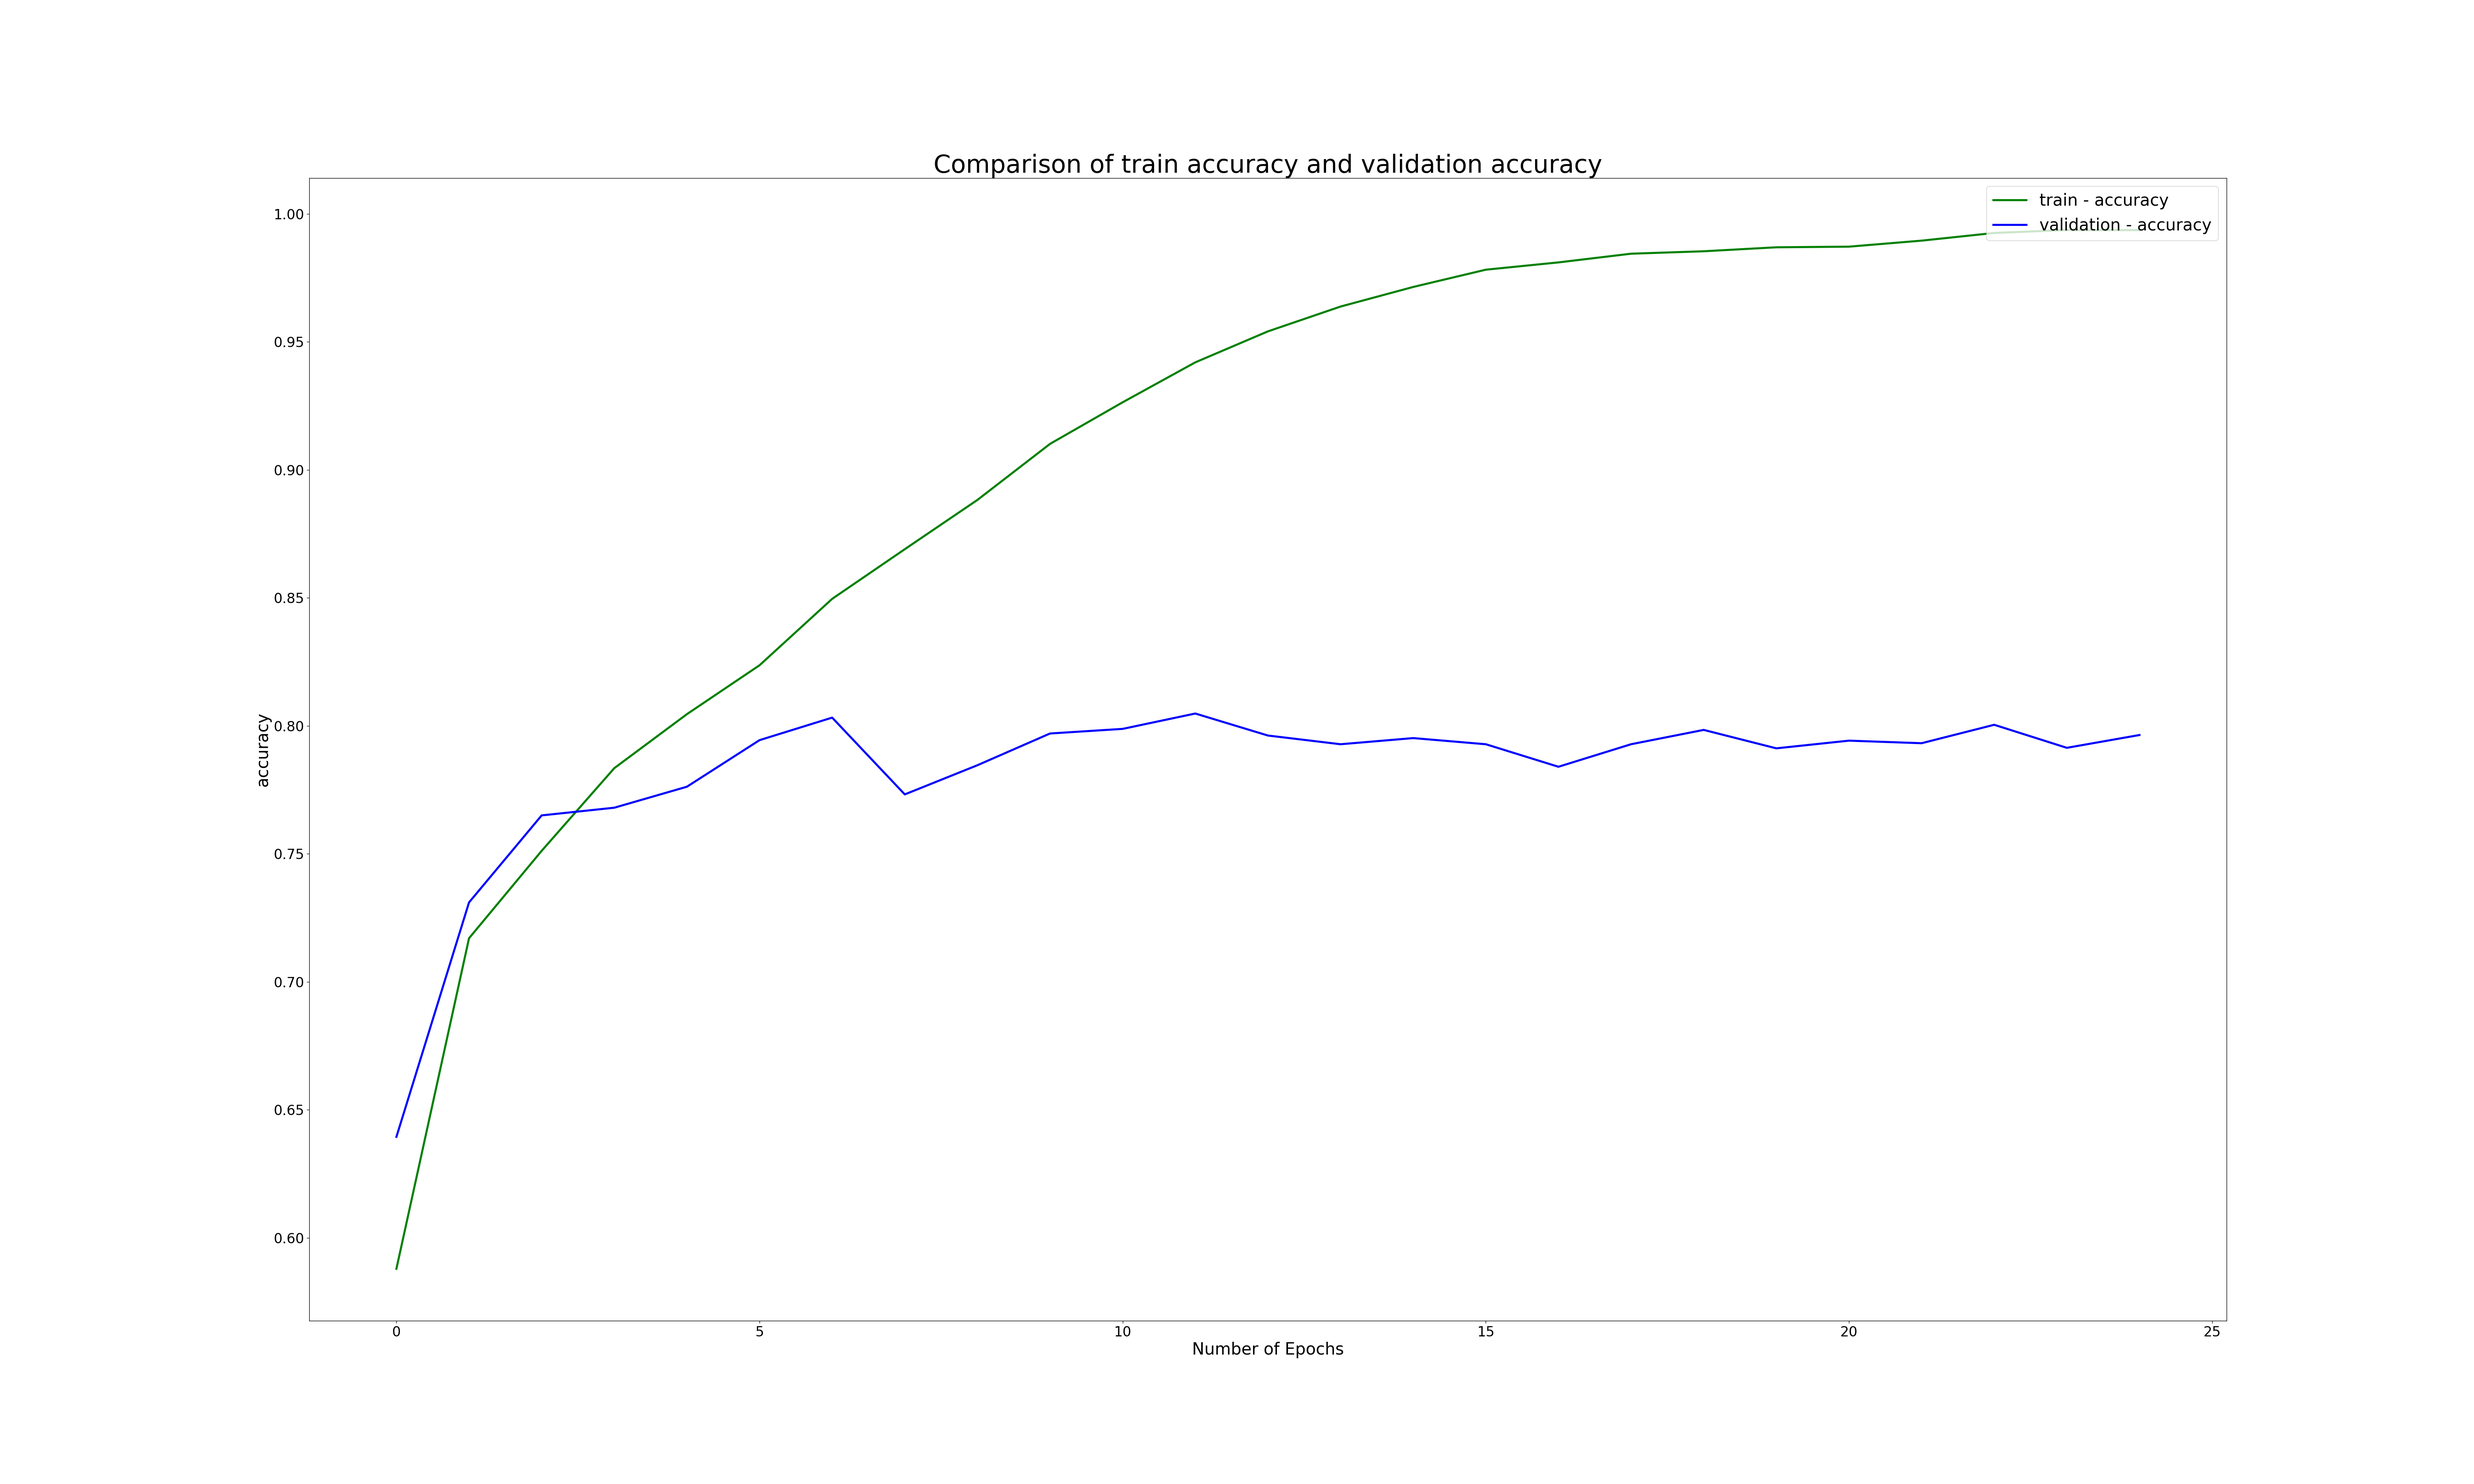
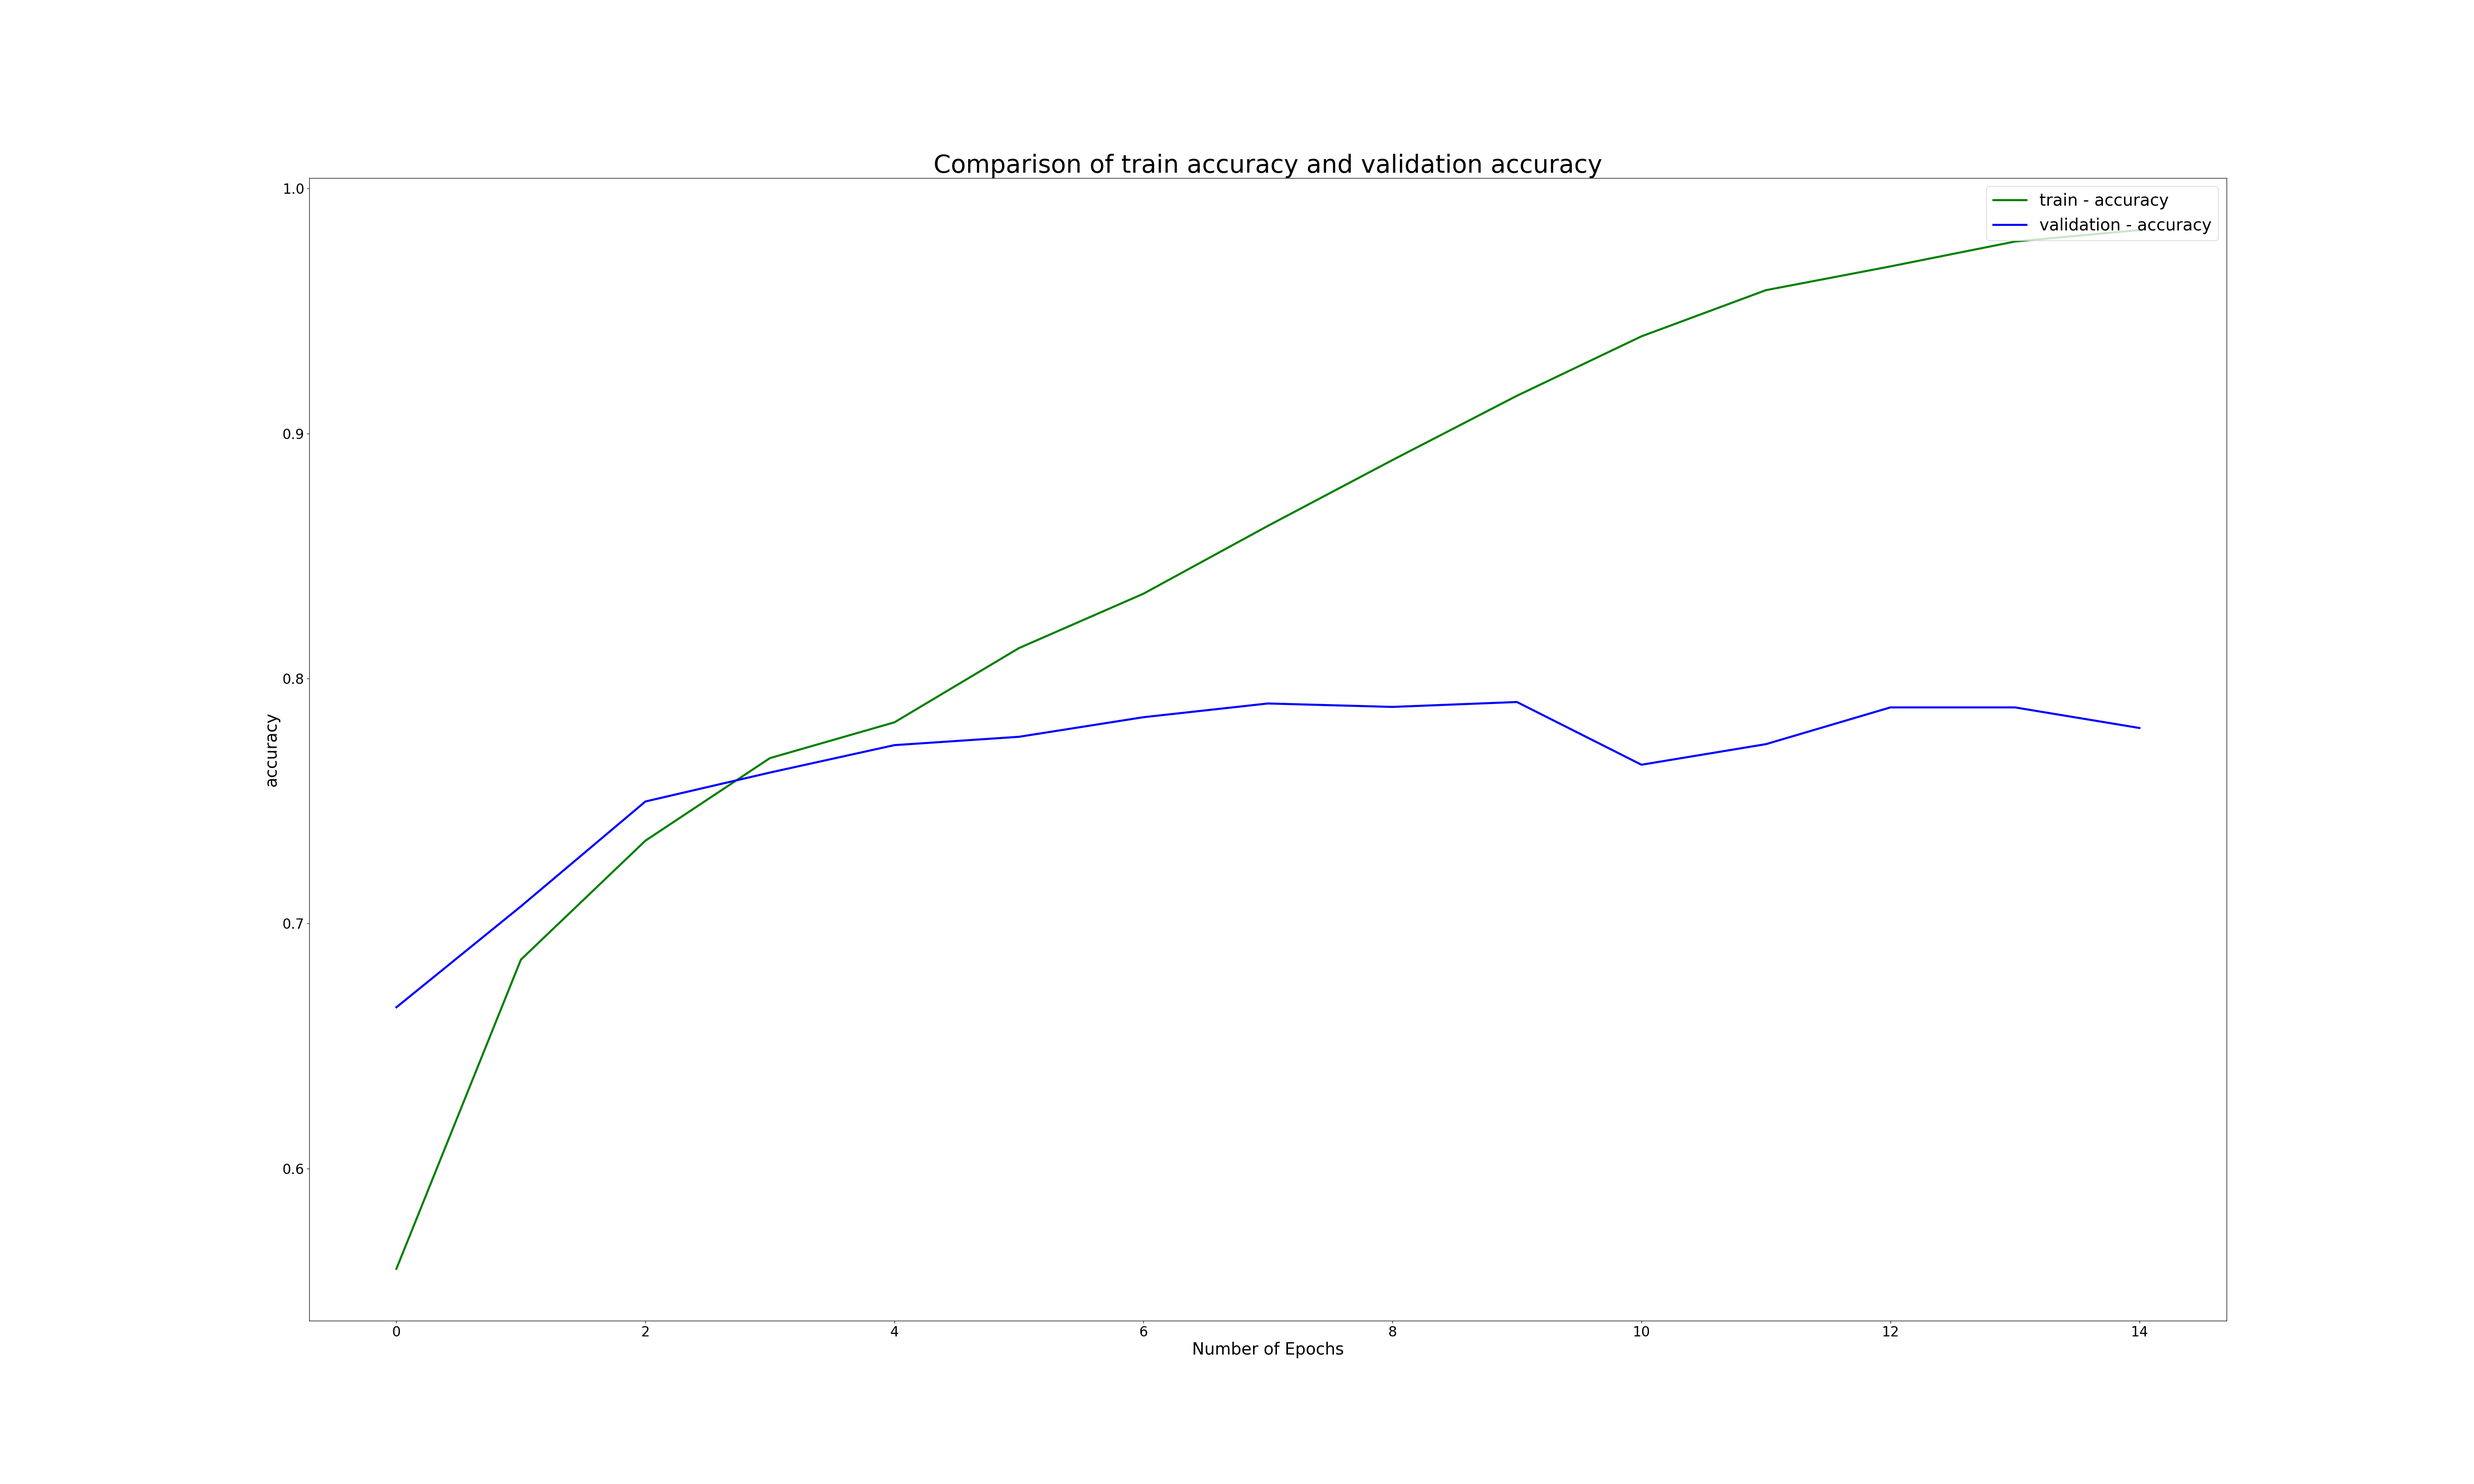
restructured model to class format

diff --git a/Binary-Classifier/BinaryCNN.py b/Binary-Classifier/BinaryCNN.py
@@ -1,5 +1,63 @@
 import tensorflow as tf
 
+class BinaryCNN:
+
+    model = None
+
+    input_shape = None
+    conv1_filters = None
+    conv1_filter_size = None
+    conv1_activation = None
+    conv2_filters = None
+    conv2_filter_size = None
+    conv2_activation = None
+    dropout = None
+    dense_neurons = None
+    dense_activation = None
+    output_activation = None
+
+    def __init__(self, input_shape, conv1_filters, conv1_filter_size, conv1_activation, 
+                 conv2_filters, conv2_filter_size, conv2_activation, dropout, 
+                 dense_neurons, dense_activation, output_activation):
+        
+        self.input_shape = input_shape
+        self.conv1_filters = conv1_filters
+        self.conv1_filter_size = conv1_filter_size
+        self.conv1_activation = conv1_activation
+        self.conv2_filters = conv2_filters
+        self.conv2_filter_size = conv2_filter_size
+        self.conv2_activation = conv2_activation
+        self.dropout = dropout
+        self.dense_neurons = dense_neurons
+        self.dense_activation = dense_activation
+        self.output_activation = output_activation
+
+    def build_model(self):
+
+        self.model = tf.keras.models.Sequential([
+            # First convolutional and Maxpooling layers
+            tf.keras.layers.Conv2D(self.conv1_filters, self.conv1_filter_size, 
+                    activation=self.conv1_activation, input_shape = self.input_shape),
+            tf.keras.layers.MaxPooling2D(2, 2), 
+            # Second convolutional and Maxpooling layers
+            tf.keras.layers.Conv2D(self.conv2_filters, self.conv2_filter_size, 
+                    activation=self.conv2_activation),
+            tf.keras.layers.MaxPooling2D(2, 2),
+            # Flatten to 1 dimention
+            tf.keras.layers.Flatten(),
+            # Droupout layer
+            tf.keras.layers.Dropout(self.dropout),
+            # First fully connected hidden layer
+            tf.keras.layers.Dense(self.dense_neurons, activation=self.dense_activation),
+            # Output layer for binary classification
+            tf.keras.layers.Dense(1, activation=self.output_activation)
+        ])
+
+        return self.model
+
+
+# old model
+""" 
 model = tf.keras.models.Sequential([
     # First convolutional and Maxpooling layers
     tf.keras.layers.Conv2D(64,(3, 3), activation='relu', input_shape = (150, 150, 3)),
@@ -24,3 +82,4 @@ model = tf.keras.models.Sequential([
     # Output layer for binary classification
     tf.keras.layers.Dense(1, activation='sigmoid')
 ])
+"""

diff --git a/Binary-Classifier/TrainBinaryCNN.py b/Binary-Classifier/TrainBinaryCNN.py
@@ -21,7 +21,8 @@ class myCallback(tf.keras.callbacks.Callback):
 callbacks = myCallback()
 
 # CNN model
-model = CNN.model
+Model = CNN.BinaryCNN((150, 150, 3), 64, (3, 3), 'relu', 64, (3, 3), 'relu', 0.4, 256, 'relu', 'sigmoid')
+model = Model.build_model()
 
 # model summary
 model.summary()
@@ -37,7 +38,7 @@ model.compile(optimizer = 'adam',loss = 'binary_crossentropy', metrics=['accurac
 history = model.fit(TRAIN_GENERATOR,
                     validation_data = VALIDATION_GENERATOR,
                     steps_per_epoch = 100, # batch size = 200, dataset size = 20000
-                    epochs = 25,
+                    epochs = 15,
                     validation_steps = 25, # batch size = 200, dataset size = 5000
                     verbose = 1,
                     callbacks = [callbacks])

diff --git a/README.md b/README.md
@@ -9,10 +9,11 @@ Image classification models on various datasets using TenserFlow and Keras
       2. Validation Set Size = 5000 (cats = 2500, dogs = 2500)
       3. Test Set Size = 100 (mixed)
   - **Scripts**
-    - BinaryCNN : model for the convolutional neural network binary classifier 
     - BinaryImageGenerator : ImageDataGenerators for flowing the images to the model from dataset
     - DatasetDirectoryPreprocessing : Directories and processing of datasets
     - PlotCode : Plotting metrics from the trained model
+  - **Classes**
+    - BinaryCNN : model class for the convolutional neural network binary classifier 
   - **Executables**
     - TrainBinaryCNN : Training the BinaryCNN model using data generators from BinaryImageGenerator on the cats_and_dogs dataset
   - **Results**
